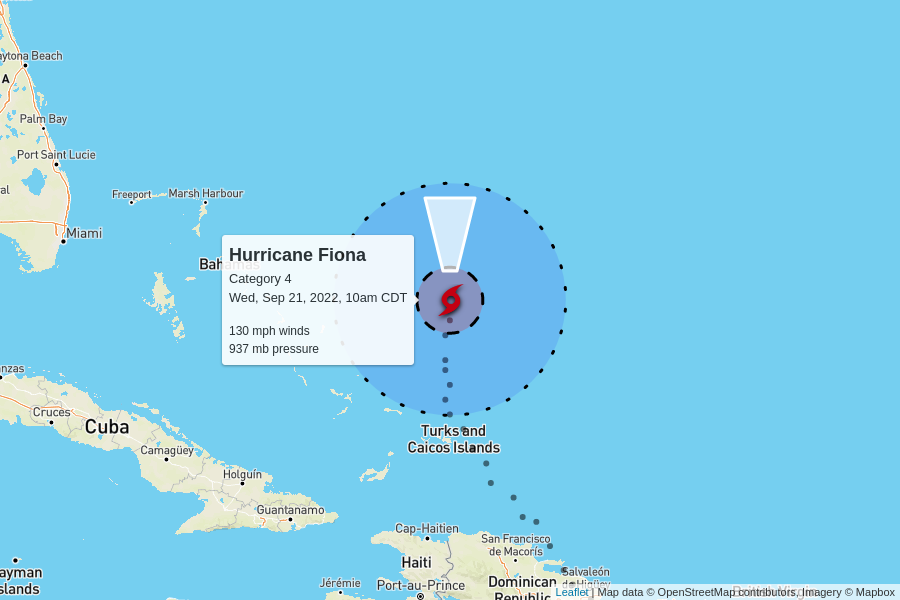
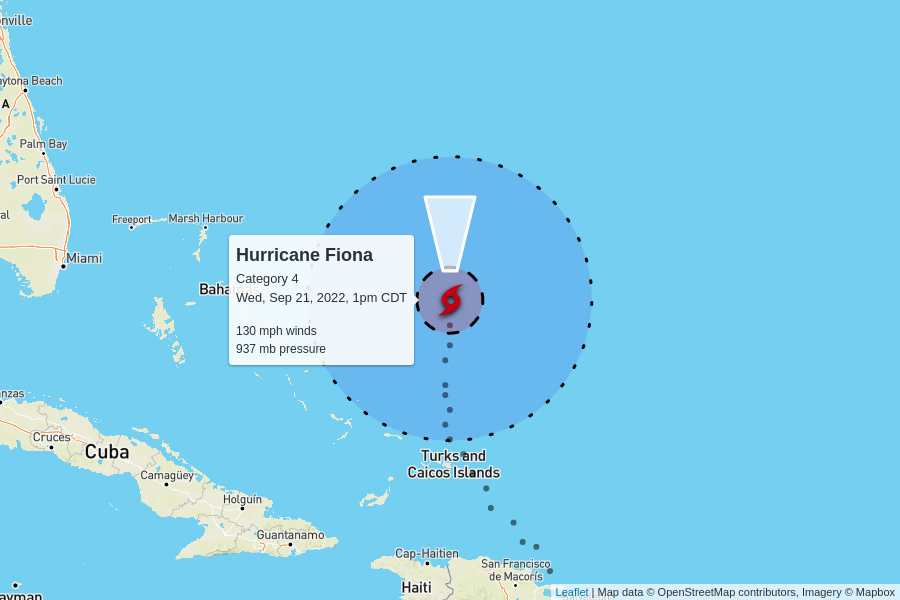
automatic update

diff --git a/docs/index.html b/docs/index.html
@@ -100,7 +100,7 @@
         <td colspan="6" class="storm category-4" >
           <h2>
             Hurricane Fiona - Category 4
-            <p class="updated">last updated <span data-time>2022-09-21T15:00:00.000Z</span></p>
+            <p class="updated">last updated <span data-time>2022-09-21T18:00:00.000Z</span></p>
           </h2>
         </td>
       </tr>
